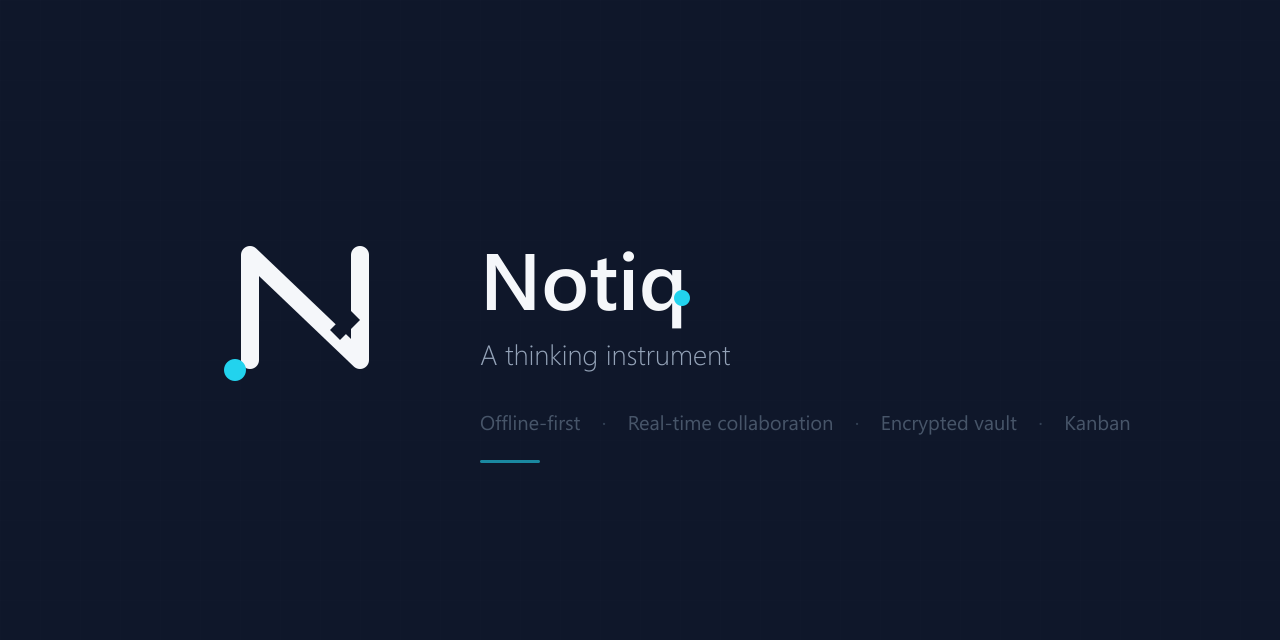
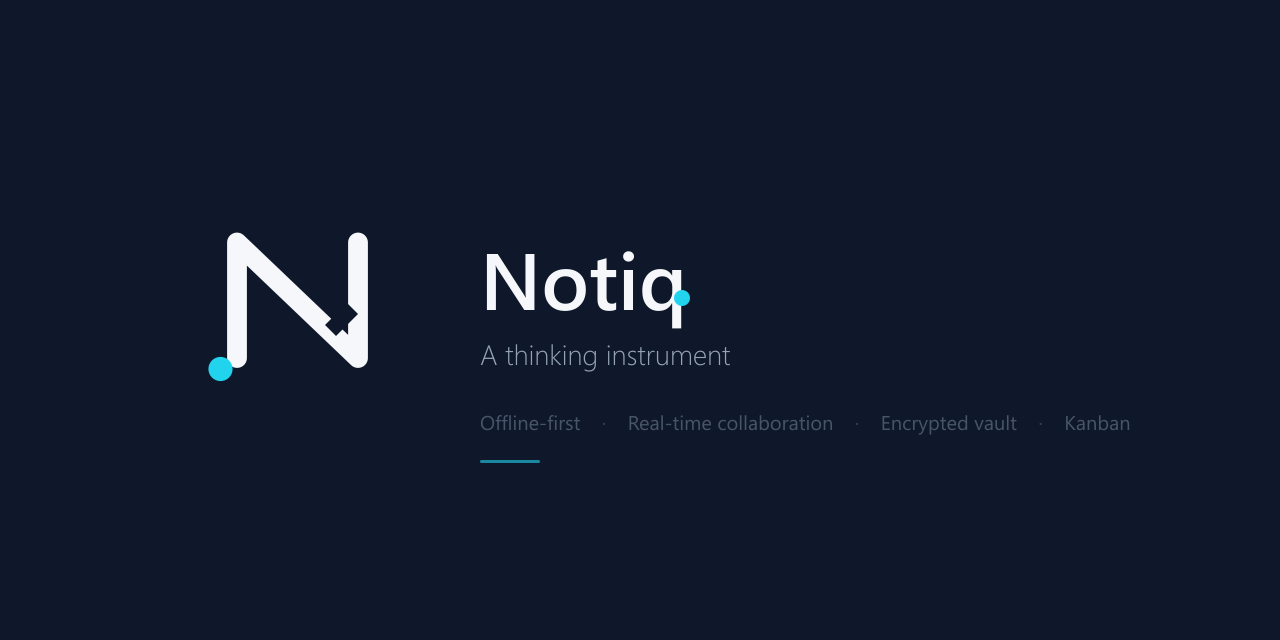
fix: replace README assets with official Notiq brand kit graphics
Removed old logo references, now using monoline N + stylus cut + forward dot
from docs/rebranding/branding/ brand kit.

Changed region(s): [[0.1562, 0.375, 0.2188, 0.5938], [0.25, 0.4688, 0.2812, 0.5312], [0.25, 0.375, 0.2812, 0.4062]]

diff --git a/README.md b/README.md
@@ -193,7 +193,7 @@ Notiq/
 ---
 
 <p align="center">
-  <img src="docs/assets/notiq-logo.svg" alt="Notiq" width="32" />
+  <img src="docs/assets/notiq-logo-256.png" alt="Notiq" width="32" />
 </p>
 
 <p align="center">
